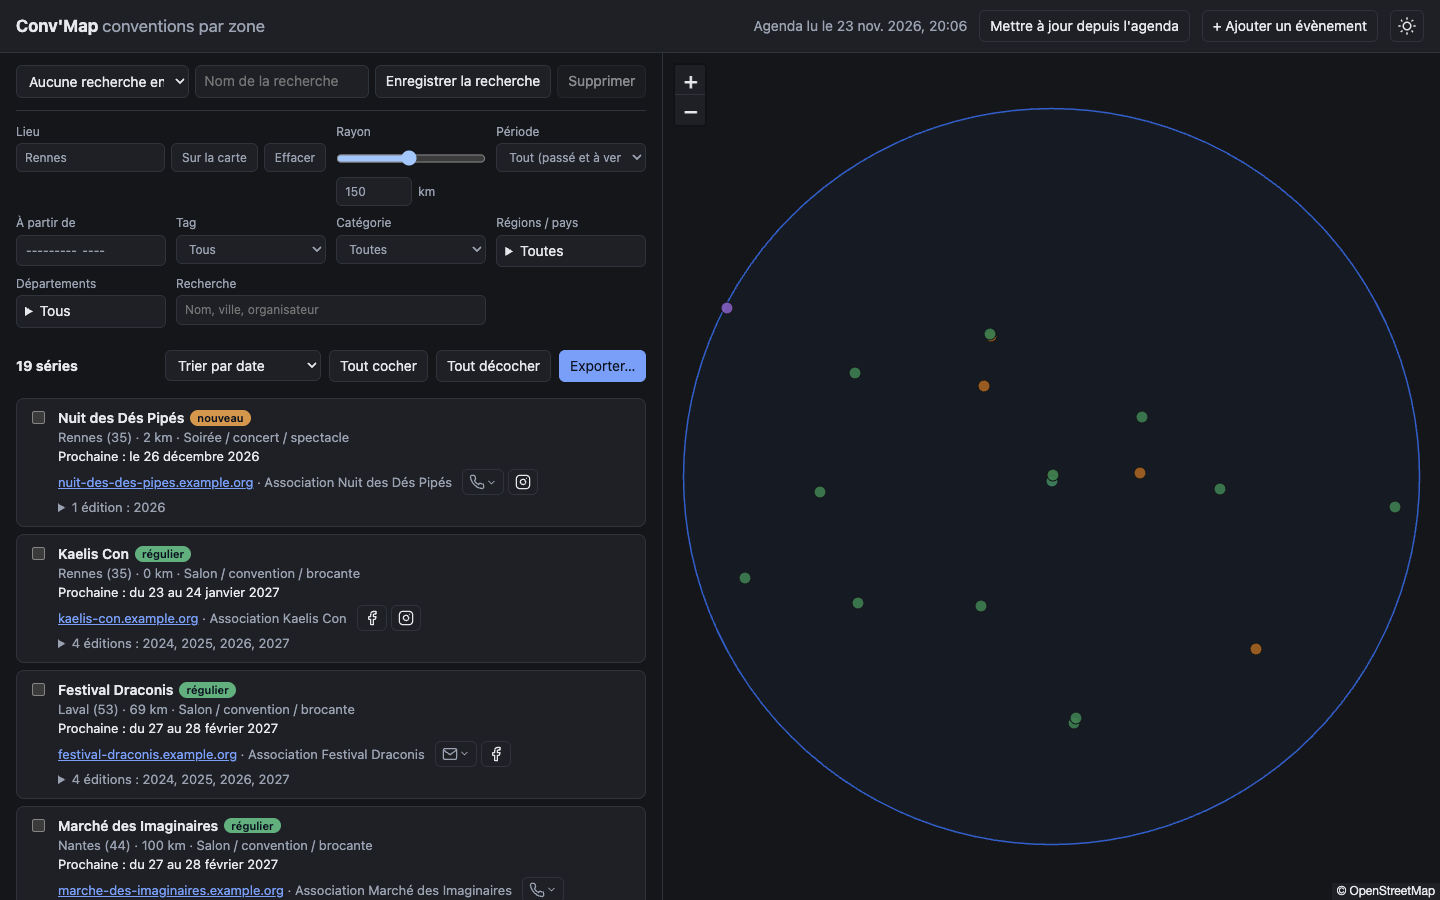
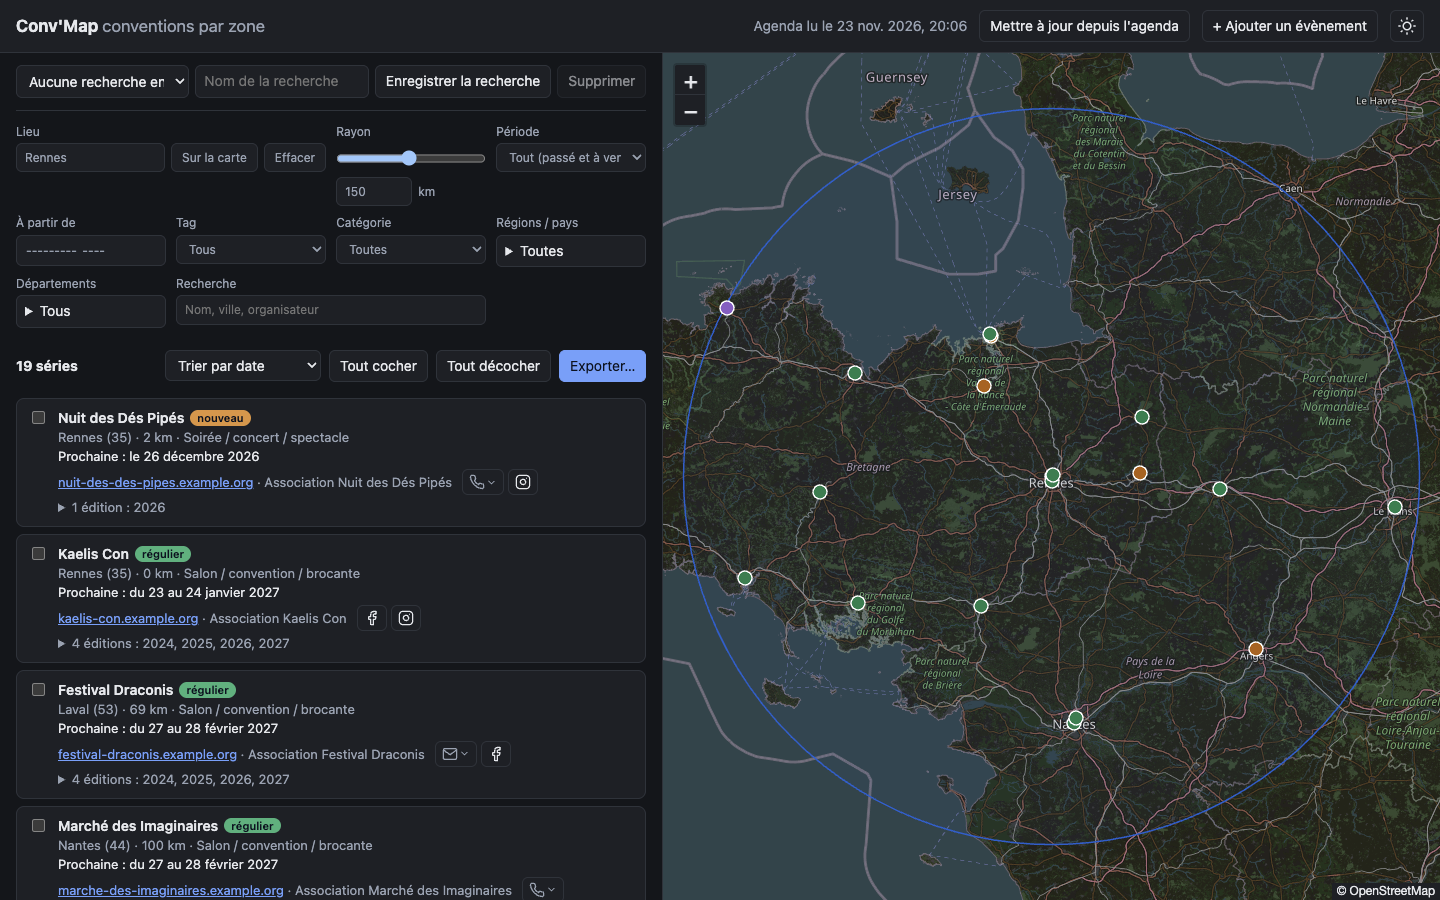
Make map points readable on the real map, retake the screenshots with it
Seen for the first time over actual OpenStreetMap tiles, the points were
small and dark-rimmed on a dark, saturated map. They are now larger with
a white rim, and the dark theme's tiles are lighter and less saturated.
The README's screenshots show the map background.

Changed region(s): [[0.4375, 0.0311, 1.0, 1.0]]

diff --git a/public/app.css b/public/app.css
@@ -125,7 +125,7 @@ textarea { font-family: ui-monospace, Menlo, monospace; font-size: 12px; resize:
 #regions .options { left: auto; right: 0; }
 
 /* The map tiles are light : in the dark theme they are inverted, hue kept. */
-:root[data-theme="dark"] .leaflet-tile-pane { filter: invert(1) hue-rotate(180deg) brightness(0.9) contrast(0.9); }
+:root[data-theme="dark"] .leaflet-tile-pane { filter: invert(1) hue-rotate(180deg) brightness(1.05) contrast(0.85) saturate(0.6); }
 :root[data-theme="dark"] .leaflet-container { background: #14161a; }
 :root[data-theme="dark"] .leaflet-bar a, :root[data-theme="dark"] .leaflet-control-attribution { background: var(--card); color: var(--ink); border-color: var(--line); }
 :root[data-theme="dark"] .leaflet-control-attribution a { color: var(--accent); }

diff --git a/public/app.js b/public/app.js
@@ -161,7 +161,7 @@ function drawMarkers() {
   for (const { series: s } of visible) {
     if (s.lat == null) continue;
     const id = s.id;
-    L.circleMarker([s.lat, s.lng], { radius: 6, color: '#14161a', weight: 1, fillColor: TAG_COLORS[s.tag], fillOpacity: 0.9 })
+    L.circleMarker([s.lat, s.lng], { radius: 7, color: '#fff', weight: 1.5, fillColor: TAG_COLORS[s.tag], fillOpacity: 1 })
       .bindTooltip(`${s.name} — ${s.city}`)
       .on('click', (event) => {
         L.DomEvent.stopPropagation(event);
